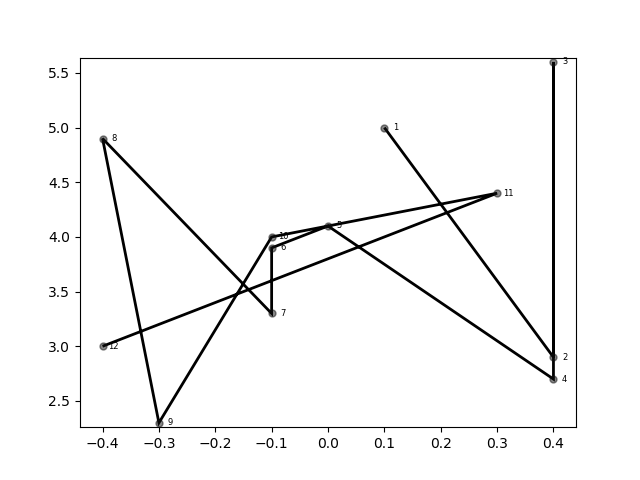
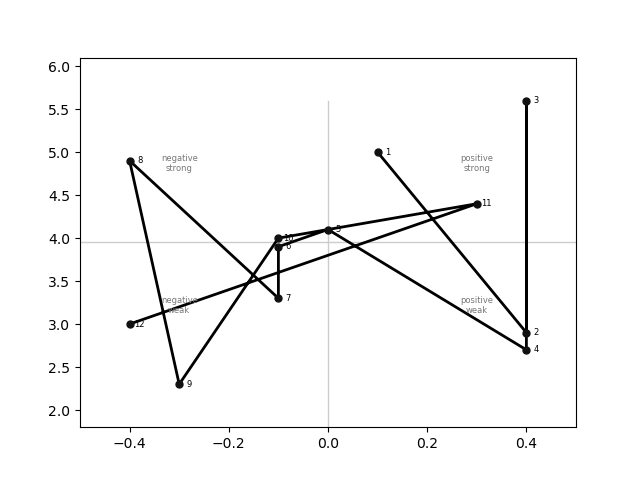
Clean up code
- remove redundant code
- simplify analysis
- update readme

diff --git a/visualise.py b/visualise.py
@@ -44,7 +44,7 @@ def scatter_plot_from_dataframe(dataframe, magnitude_amplifier=0, disable_grid=F
 
     #plot the data
     x_values = dataframe['score']
-    ax1.scatter(x_values, dataframe['magnitude'], c=colors, s=sizes, alpha=0.5, zorder=2)
+    ax1.scatter(x_values, dataframe['magnitude'], c=colors, s=sizes, alpha=1, zorder=2)
     plt.ylabel('magnitude')
     plt.xlabel('sentiment')
     ax1.spines['right'].set_visible(False)
@@ -69,52 +69,75 @@ def scatter_plot_from_dataframe(dataframe, magnitude_amplifier=0, disable_grid=F
         ax1.plot([0, 0], [0, max_magnitude], c=grid_color, linewidth=1, zorder=1)
 
     #annotate songs if passed
-    if annotate == 'title' or annotate == 'index':
+    if annotate == 'title' or annotate == 'index' or annotate == 'index title':
         for i, txt in enumerate(dataframe['title']):
             annotate_label = txt
             annotate_x = dataframe['score'][i]
             if annotate == 'index':
                 annotate_label = str(i+1)
                 annotate_x = dataframe['score'][i]+0.02
+            if annotate == 'index title':
+                annotate_label = str(i + 1) + ': ' + annotate_label
+                annotate_x = dataframe['score'][i] + 0.01
             # ax1.annotate(str(i+1) + ': ' + txt, (dataframe['score'][i], dataframe['magnitude'][i]+0.2), size=6, va='center', ha='center')
-            ax1.annotate(annotate_label, (annotate_x, dataframe['magnitude'][i]), size=6, va='center', ha='center')
+            ax1.annotate(annotate_label, (annotate_x, dataframe['magnitude'][i]), size=6, va='center', ha='left')
 
     plt.show()
 
 
-def plot_path_from_dataframe(dataframe, line_type='curved', disable_grids=True, show_dots=False):
+def plot_path_from_dataframe(dataframe, line_color='black', line_type='curved', disable_grids=True, show_dots=False, line_length=99, emogrid=False):
     x_values = dataframe['score']
     y_values = dataframe['magnitude']
+
     verts = []
     codes = []
     for i, item in enumerate(x_values):
-        verts.append((item, y_values[i]))
-        if i == 0:
-            codes.append(Path.MOVETO)
-        elif i >= len(x_values) - 1:
-            codes.append(Path.LINETO)
-        else:
-            if line_type == 'straight':
+        if i <= line_length:
+            verts.append((item, y_values[i]))
+            if i == 0:
+                codes.append(Path.MOVETO)
+            elif i >= len(x_values) - 1:
                 codes.append(Path.LINETO)
             else:
-                codes.append(Path.CURVE4)
+                if line_type == 'straight' or line_type == 's':
+                    codes.append(Path.LINETO)
+                else:
+                    codes.append(Path.CURVE4)
 
     path = Path(verts, codes)
 
     fig = plt.figure()
     ax = fig.add_subplot(111)
+    grid_color = '#cccccc'
+    grid_text_color = '#777777'
+
+    if emogrid:
+        magnitude_max = dataframe['magnitude'].max()
+        magnitude_mid = dataframe['magnitude'].min() + (dataframe['magnitude'].max()-dataframe['magnitude'].min())/2
+        magnitude_range = dataframe['magnitude'].max()-dataframe['magnitude'].min()
+        score_min = dataframe['score'].min()-0.2
+        score_max = dataframe['score'].max()+0.2
+        ax.plot([0, 0], [0, magnitude_max], c=grid_color, linewidth=1, zorder=0)
+        ax.plot([score_min, score_max], [magnitude_mid, magnitude_mid], c=grid_color, linewidth=1, zorder=0)
+        ax.annotate('negative\nstrong', (score_min/2, magnitude_max-(magnitude_range/4)), size=6, ha='center', color=grid_text_color)
+        ax.annotate('negative\nweak', (score_min/2, magnitude_mid - (magnitude_range/4)), size=6, ha='center', color=grid_text_color)
+        ax.annotate('positive\nstrong', (score_max / 2, magnitude_max - (magnitude_range/4)), size=6, ha='center', color=grid_text_color)
+        ax.annotate('positive\nweak', (score_max / 2, magnitude_mid - (magnitude_range/4)), size=6, ha='center', color=grid_text_color)
+
     if show_dots:
-        ax.scatter(x_values, y_values, c='#111111', s=25, alpha=0.5, zorder=2)
+        ax.scatter(x_values, y_values, c='#111111', s=25, alpha=1, zorder=2)
         for i, txt in enumerate(dataframe['title']):
             ax.annotate(str(i + 1), (dataframe['score'][i] + 0.02, dataframe['magnitude'][i]), size=6, va='center', ha='center')
 
 
-    patch = mpatches.PathPatch(path, facecolor='none', lw=2, edgecolor='black')
+    patch = mpatches.PathPatch(path, facecolor='none', lw=2, edgecolor=line_color)
     ax.add_patch(patch)
 
-    graph_correction = 0.04
-    ax.set_xlim(min(x_values)-graph_correction, max(x_values)+graph_correction)
-    ax.set_ylim(min(y_values)-graph_correction, max(y_values)+graph_correction)
+    graph_correction_x = 0.1
+    graph_correction_y = 0.5
+    ax.set_xlim(min(x_values) - graph_correction_x, max(x_values) + graph_correction_x)
+    ax.set_ylim(min(y_values) - graph_correction_y, max(y_values) + graph_correction_y)
+
     if disable_grids:
         ax.get_xaxis().set_visible(False)
         ax.get_yaxis().set_visible(False)
@@ -126,7 +149,6 @@ def plot_path_from_dataframe(dataframe, line_type='curved', disable_grids=True, 
 def convert_xlsx_into_dataframe(xlsx_file):
     xls = pd.ExcelFile(xlsx_file)
     df = xls.parse(xls.sheet_names[0])
-    print(df)
     df = df.sort_values(by='index')
     df = df.reset_index()
     return df

diff --git a/analyse.py b/analyse.py
@@ -59,29 +59,20 @@ def save_array_of_dicts_to_excel(array_of_dicts, file_name):
     workbook = xlsxwriter.Workbook('output/song_sentiment_'+file_name+'.xlsx')
     worksheet = workbook.add_worksheet()
     songs = array_of_dicts
-    print(songs)
     row = 0
     col = 0
     for index, key in enumerate(array_of_dicts[0]):
-        print(index, key)
         worksheet.write(row, col + index, key)
 
     for song in songs:
-        print(song)
         row += 1
         for index, key in enumerate(song):
-            print(index, song[key])
             worksheet.write(row, col + index, song[key])
 
     workbook.close()
 
+def analyse_files_and_store_in_excel(folder_path, file_name):
+    save_array_of_dicts_to_excel(get_song_sentiment(folder_path), file_name)
 
-# save_array_of_dicts_to_excel(get_song_sentiment('songs/avicii'), 'avicii_discography' )
-# save_array_of_dicts_to_excel(get_song_sentiment('songs/lemaitre'), 'lemaitre_chapterone' )
-# save_array_of_dicts_to_excel(get_song_sentiment('songs/anouk'), 'anouk' )
-save_array_of_dicts_to_excel(get_song_sentiment('songs/brandon flowers'), 'brandonflowers_thedesiredeffect' )
-
-# save_array_of_dicts_to_excel(get_song_sentiment('songs/the beatles'), 'thebeatles_sgtpepperslonelyheartsclubbandsgtpepperslonelyheartsclubband' )
-# save_array_of_dicts_to_excel(get_sentiment_single_song_from_file('songs/brandon flowers/thedesiredeffect_dreamscometrue.txt'), 'thedesiredeffect_dreamscometrue')
 
 

diff --git a/run-example.py b/run-example.py
@@ -1,0 +1,23 @@
+from visualise import scatter_plot_from_dataframe, plot_path_from_dataframe, convert_xlsx_into_dataframe
+from analyse import analyse_files_and_store_in_excel
+
+analyse_files_and_store_in_excel('songs/avicii_tim', 'avicii_tim')
+
+df = convert_xlsx_into_dataframe('output/song_sentiment_avicii_tim.xlsx')
+
+scatter_plot_from_dataframe(
+    dataframe=df,
+    magnitude_amplifier=0,
+    disable_grid=False,
+    annotate='index',
+    album_color=''
+)
+
+plot_path_from_dataframe(
+  dataframe=df,
+  show_dots=True,
+  disable_grids=False,
+  line_type='s',
+  line_color='black',
+  emogrid=True,
+)

diff --git a/connect.py b/connect.py
@@ -8,7 +8,7 @@ SCOPES = ['https://www.googleapis.com/auth/cloud-language']
 SERVICE_ACCOUNT_FILE = 'credentials.json'
 credentials = service_account.Credentials.from_service_account_file(
         SERVICE_ACCOUNT_FILE, scopes=SCOPES)
-print(credentials)
+
 client = language.LanguageServiceClient(
     credentials=credentials
 )

diff --git a/README.md b/README.md
@@ -1,28 +1,30 @@
 # The Avicii project: a visualisation of the emotion of music lyrics in Python
 
-You can use this project to visualise sentiment data of music lyrics. [Read the origin story]([http://www.edriessen.com/avicii/) to find out why I created it.
+You can use this project to visualise sentiment data of music lyrics. [Read the origin story](http://www.sentimentshirt.com/stories/honoring-avicii/) to find out why I created it.
 
 # Create a dataviz of the lyrics your favourite artist
 
-Good to see that you want to visualise the lyrics of one of your favourite artists (or just want to know more about this repository). The process is split into two parts:
+Good to see that you want to visualise the lyrics of one of your favourite artists. The process is split into two parts:
 
 1. Analyse the song texts.
 2. Plot the sentiment data.
 
-I'll use Avicii's posthumous album TIM as an example in this readme. Let's dig in.
+I'll use Avicii's posthumous album TIM as an example in this readme. 
+You can see an example setup in `run-example.py`. 
+Let's dig in.
 
 # 1. Analyse the songtexts
 
-To run an analysis, you'll need a connection to the Google Cloud Natural Language API. Set up a project in the Google Cloud console and add your `credentials.json` to the project root folder. After that, you'll need a `.txt` file for each song that you want to analyse. Format each song file this way: `songindex-albumname-songtitle.txt`. For the song Peace of Mind by Avicii, the first song on the album TIM, this would be: `1-tip-peace_of_mind.txt`. I store the text files of the albums I generate inside a `songs` folder in my project. 
+To run an analysis, you'll need a connection to the Google Cloud Natural Language API. Set up a project in the Google Cloud console and add your `credentials.json` to the project root folder. After that, you'll need a `.txt` file for each song that you want to analyse. Format each song file this way: `song index-album name-song title.txt`. For the song Peace of Mind by Avicii, the first song on the album TIM, this would be: `1-tip-peace of mind.txt`. I store the text files of the albums I generate inside a `songs` folder in my project. 
 
-When you have the files ready, you can use `analyse.py` to run the sentiment analysis. From this file, you call `save_array_of_dicts_to_excel()`. The function takes two arguments:
+When you have the files ready, you can use `analyse_files_and_store_in_excel.py` to run the sentiment analysis and store the results in an Excel sheet. The function takes two arguments:
 
-- Array of dicts (the songs and their corresponding sentiment values). Use the `get_song_sentiment('songs/avicii_tim')` function to generate this list. Refer to the correct path location of your songs. In my example, the text files are located in `songs/avicii_tim`.
-- Name extension of Excel file. The function will save the file to the `output/` folder. The file name will be `song_sentiment_your_extension.xlsx`.
+- path to song files, e.g. `songs/avicii_tim`.
+- name extension of Excel file. The file is called `song_sentiment_extension.xlsx`, e.g. `song_sentiment_avicii_tim.xslx`. 
 
 A full example looks like this:
 
-`save_array_of_dicts_to_excel(get_song_sentiment('songs/avicii_tim'), 'avicii_tim' )`
+`analyse_files_and_store_in_excel('songs/avicii_tim', 'avicii_tim')`
 
 # 2. Visualise the sentiment data
 
@@ -31,21 +33,20 @@ You can visualise the data with the functions in `visualise.py` . There are two 
 - Scatter plot - `scatter_plot_from_dataframe`
 - Line plot - `plot_path_from_dataframe`
 
-They both have a unique way of visualising the data. I'll give a basic and advanced example of both. But first, you'll have to transform the generated sheet into a dataframe. You can do so by using the `convert_xlsx_into_dataframe` function:
+You'll have to transform the generated sheet into a dataframe first. You can do so by using the `convert_xlsx_into_dataframe` function from `visualise.py`:
 
 ```
-tim_df = convert_xlsx_into_dataframe('output/song_sentiment_avicii_tim.xlsx')
+df = convert_xlsx_into_dataframe('output/song_sentiment_avicii_tim.xlsx')
 ```
 _You could also visualise the results of the analysis directly, without saving them into a file. But by doing so, you will call the Google API every time you run the visualisation. By storing the results into a file, you greatly reduce the amount of API calls you have to make._
 
 ## The scatterplot of your favourite music
 
-Use the `scatter_plot_from_dataframe` function to create a scatter plot. You only have to pass 2 values: a dataframe, and a magnitude_amplifier:
+Use the `scatter_plot_from_dataframe` function to create a scatter plot. You only have to pass 1 value: a dataframe:
 
 ```
 scatter_plot_from_dataframe(
     dataframe=tim_df,
-    magnitude_amplifier=28,
 )
 ```
 Here's an example of the results:
@@ -63,6 +64,13 @@ scatter_plot_from_dataframe(
     disable_grid=True,
 )
 ```
+Some details on the values:
+
+- dataframe: the data frame you want to visualise.
+- magnitude_amplifier: changes the size of a dot based on the magnitude.
+- album_color: the color for the dots. Leave empty for sentiment colours red, grey, and green. 
+- annotate: define how you'd like to annotate the dots. Use `'title'`, `'index'`, or `'index title'`. Leave empty for no annotation.
+- disable_grid: do you want to hide the grid of the plot (`True`/`False`)?
 
 Here's another example of the resulting dataviz from this function:
 
@@ -71,11 +79,11 @@ Here's another example of the resulting dataviz from this function:
 
 ## The line path of your favourite music
 
-This one feels magical to me. Using the paths from Matplotlib, you can draw an organic looking line. It's drawn from one song to the next based on the index on the album.  Use the `path_plot_from_dataframe` function to create the line. You only have to pass a dataframe.
+This one feels magical to me. Using the patches option from Matplotlib, you can draw an organic looking line. It's drawn from one song to the next based on the index on the album.  Use the `path_plot_from_dataframe` function to create the line. You only have to pass a dataframe.
 
 ```
 plot_path_from_dataframe(
-    dataframe=tim_df
+    dataframe=df
 )
 ```
 
@@ -83,27 +91,35 @@ And the result is:
 
 ![Avicii Time Path Basic](sample_dataviz/avicii_path_basic.png)
 
-Also this function has some extra options. I've used these during testing. To see if lines were drawn correctly. I decided to keep them in so you can get an understanding of how the drawing works. Here's an example of the function with all it's extra options set:
+Also this function has some extra options. I've used these during testing to see if lines were drawn correctly. I decided to keep them in so you can get an understanding of how the drawing works. Here's an example of the function with all it's extra options set:
 
 ```
 plot_path_from_dataframe(
-    dataframe=tim_df,
+    dataframe=df,
     show_dots=True,
     disable_grids=False,
     line_type='straight',
+    line_color='black',
+    emo_grid=False
 )
 
 ```
+Some details on the values:
+
+- dataframe: the data frame you want to visualise.
+- show_dots: do you want to show dots in this plot (`True`/`False`)?
+- disable_grids: do you want to hide the grid of the plot (`True`/`False`)?
+- line_type: the type of line you want to use. Use `'s'` or `'straight'` for a straight line. Default is curved.
+- line_color: set the colour for the line. Use supported default color label or hex colour, e.g. `'#ff0000'`. 
+- emo_grid: plots the following four quadrants in the image: weak negative, strong negative, weak positive, strong positive. 
+
 And again the result:
 
 ![Avicii Time Path Custom](sample_dataviz/avicii_path_custom.png)
 
 # Story
 
-If you are interested in the why of this repository, read my stories about the origin:
-
-- [The Avicii Project](http://www.edriessen.com/avicii/) 
-- [Analysing Avicii TIM](http://www.edriessen.com/2019/06/15/visualising-the-emotion-of-aviciis-new-album-tim/) 
+If you are interested in the why of this repository, read my story about the origin: [The Avicii Project](http://www.sentimentshirt.com/stories/honoring-avicii/).
 
 # To do
 
